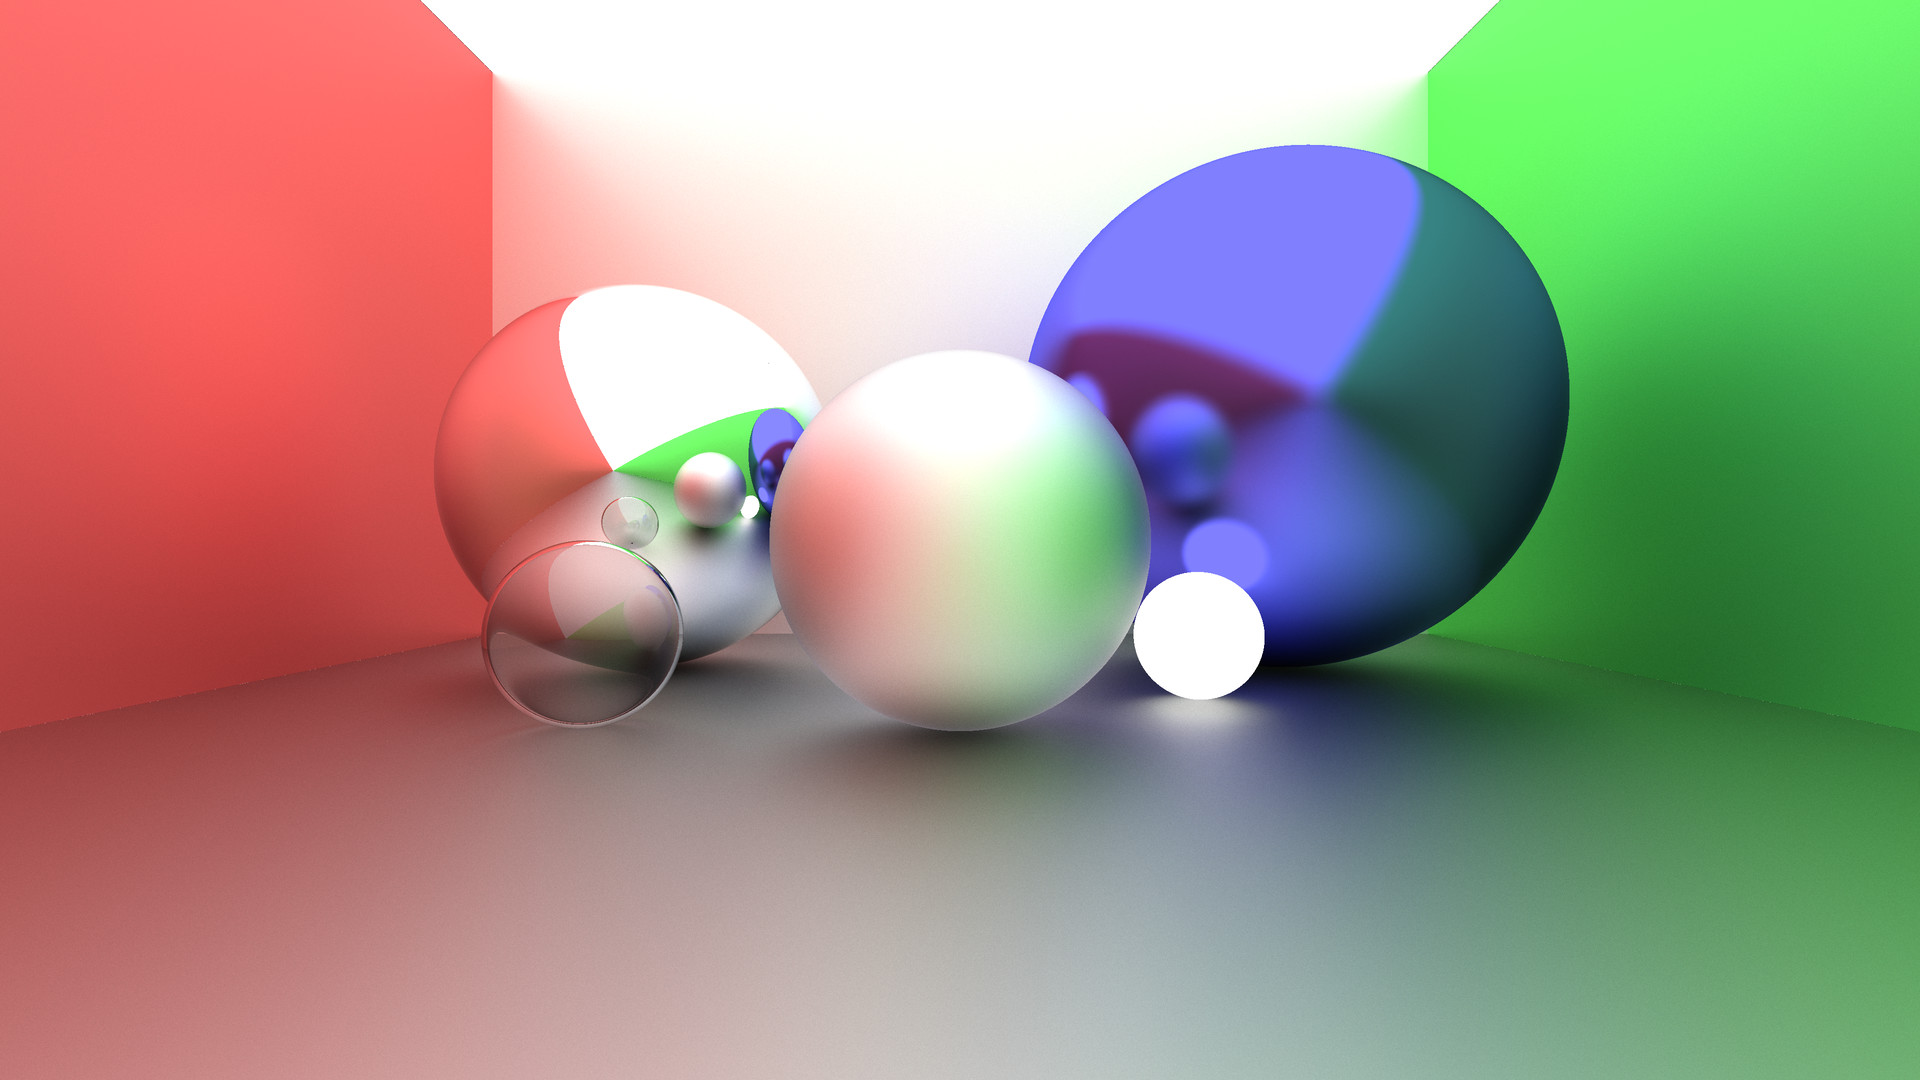
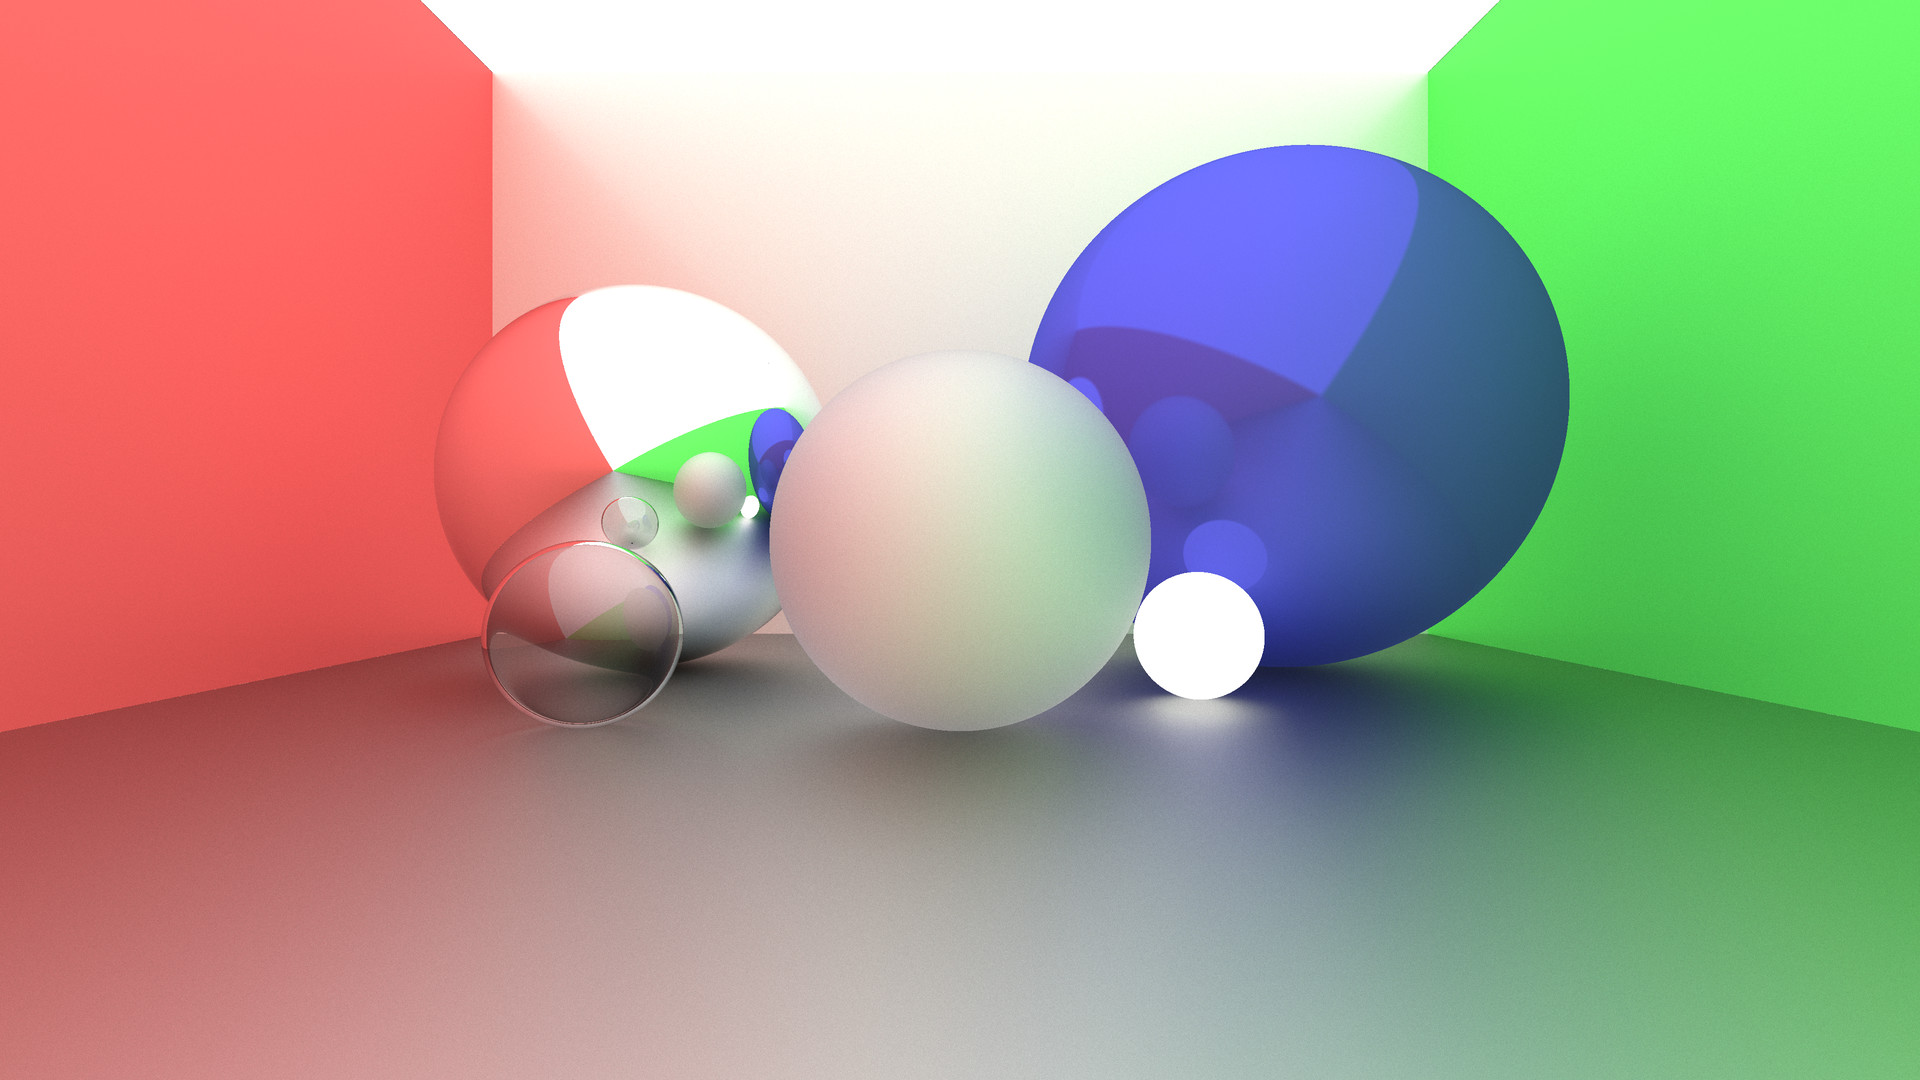
example: updated

Changed region(s): [[0.0, 0.1222, 1.0, 0.7639], [0.4375, 0.6417, 0.5625, 0.7333]]

diff --git a/src/rt.rs b/src/rt.rs
@@ -471,12 +471,12 @@ impl Ray {
         let mut rough = hit.get_rough();
         let opacity = hit.get_opacity();
 
-        // 75% chance to diffuse for dielectric
-        if hit.obj.mat.metal == 0.0 && opacity != 0.0 && rand::thread_rng().gen_bool((1.0 - rough).min(0.75).into()) {
+        // 70% chance to diffuse for dielectric
+        if hit.obj.mat.metal == 0.0 && opacity != 0.0 && rand::thread_rng().gen_bool(0.70) {
             rough = 1.0;
         }
 
-        let norm = (hit.norm.0 + Vec3f::rand(rough)).norm();
+        let norm = (hit.norm.0 + rough * rt.rand()).norm();
         let dir = self.dir.reflect(norm).norm();
 
         Ray::cast(self.into(), dir, self.pwr * (1.0 - rt.loss.min(1.0)), self.bounce + 1)
@@ -491,7 +491,7 @@ impl Ray {
             rough = 1.0;
         }
 
-        let norm = (hit.norm.1 + Vec3f::rand(rough)).norm();
+        let norm = (hit.norm.1 + rough * rt.rand()).norm();
 
         let eta = 1.0 + 0.5 * hit.get_glass();
         let dir = self.dir.refract(eta, norm)?.norm();
@@ -853,6 +853,14 @@ impl RayTracer {
                 }
             )
         })
+    }
+
+    fn rand(&self) -> Vec3f {
+        Vec3f {
+            x: rand::thread_rng().sample(self.sampler) * 2.0 - 1.0,
+            y: rand::thread_rng().sample(self.sampler) * 2.0 - 1.0, 
+            z: rand::thread_rng().sample(self.sampler) * 2.0 - 1.0
+        }
     }
 
     pub fn default_sampler() -> Uniform<f32> {

diff --git a/src/lin.rs b/src/lin.rs
@@ -113,14 +113,6 @@ impl Vec3f {
         }
     }
 
-    pub fn rand(max_v: f32) -> Self {
-        Vec3f {
-            x: rand::thread_rng().gen_range(-0.5..0.5) * max_v,
-            y: rand::thread_rng().gen_range(-0.5..0.5) * max_v, 
-            z: rand::thread_rng().gen_range(-0.5..0.5) * max_v
-        }
-    }
-
     pub fn zero() -> Self {
         Vec3f {
             x: 0.0,

diff --git a/README.md b/README.md
@@ -11,16 +11,16 @@ It's something like [Zenity](https://github.com/GNOME/zenity), that provides you
 ```bash
 raytrace --obj sph r: 0.2 rough: 1 \
          --obj sph r: 0.1 pos: -0.4 0 -0.1 glass: 0.1 opacity: 0 \
-         --obj sph r: 0.4 pos: 0.5 0.5 0.2 albedo: 0 0 1 rough: 0.1 \
+         --obj sph r: 0.4 pos: 0.5 0.5 0.2 albedo: 0 0 1 rough: 0.01 \
          --obj sph r: 0.3 pos: -0.5 0.5 0.1 metal: 1 \
          --obj sph r: 0.08 pos: 0.3 0.18 -0.12 emit: 1.0 \
-         --obj pln pos: 0 0 -0.2 rough: 1 \
+         --obj pln pos: 0 0 -0.2 rough: 0.5 metal: 1 \
          --obj pln n: 0 0 -1 pos: 0 0 1 emit: 1.0 \
          --obj pln n: -1 0 0 pos: 1 0 0 albedo: 0 1 0 rough: 1 \
          --obj pln n: 1 0 0 pos: -1 0 0 albedo: 1 0 0 rough: 1 \
          --obj pln n: 0 -1 0 pos: 0 1 0 rough: 1 \
          --cam fov: 60 gamma: 0.8 exp: 0 \
-         --bounce 16 --sample 1024 \
+         --bounce 16 --sample 512 \
          --res 1920 1080 --ssaa 2
 ```
 
@@ -133,8 +133,8 @@ raytrace --obj sph r: 0.2 pos: 0.5 0.5 0 albedo: 1 0.76 0.47 emit: 1.0 \
          --obj pln n: -1 0 0 pos: 1 0 0 albedo: 0 1 0 rough: 1 \
          --obj pln n: 1 0 0 pos: -1 0 0 albedo: 1 0 0 rough: 1 \
          --obj pln n: 0 -1 0 pos: 0 1 0 rough: 1 \
-         --cam pos: 0 -1.2 0.1 fov: 60 gamma: 0.42 exp: 0.54 \
-         --bounce 256 --sample 1024
+         --cam pos: 0 -1.2 0.1 fov: 60 gamma: 0.5 exp: 0.75 \
+         --bounce 16 --sample 1024
 ```
 
 ![image](doc/out2.png)
@@ -239,9 +239,9 @@ raytrace --obj sph r: 0.2 pos: 0.5 0.5 0 albedo: 1 0.76 0.47 emit: 1.0 \
     "ssaa": 1,
     "cam": {
         "dir": [0, 0, 1, 0],
-        "exp": 0.54,
+        "exp": 0.75,
         "fov": 70,
-        "gamma": 0.42,
+        "gamma": 0.5,
         "pos": [0, -1.2, 0.1]
     }
 }
